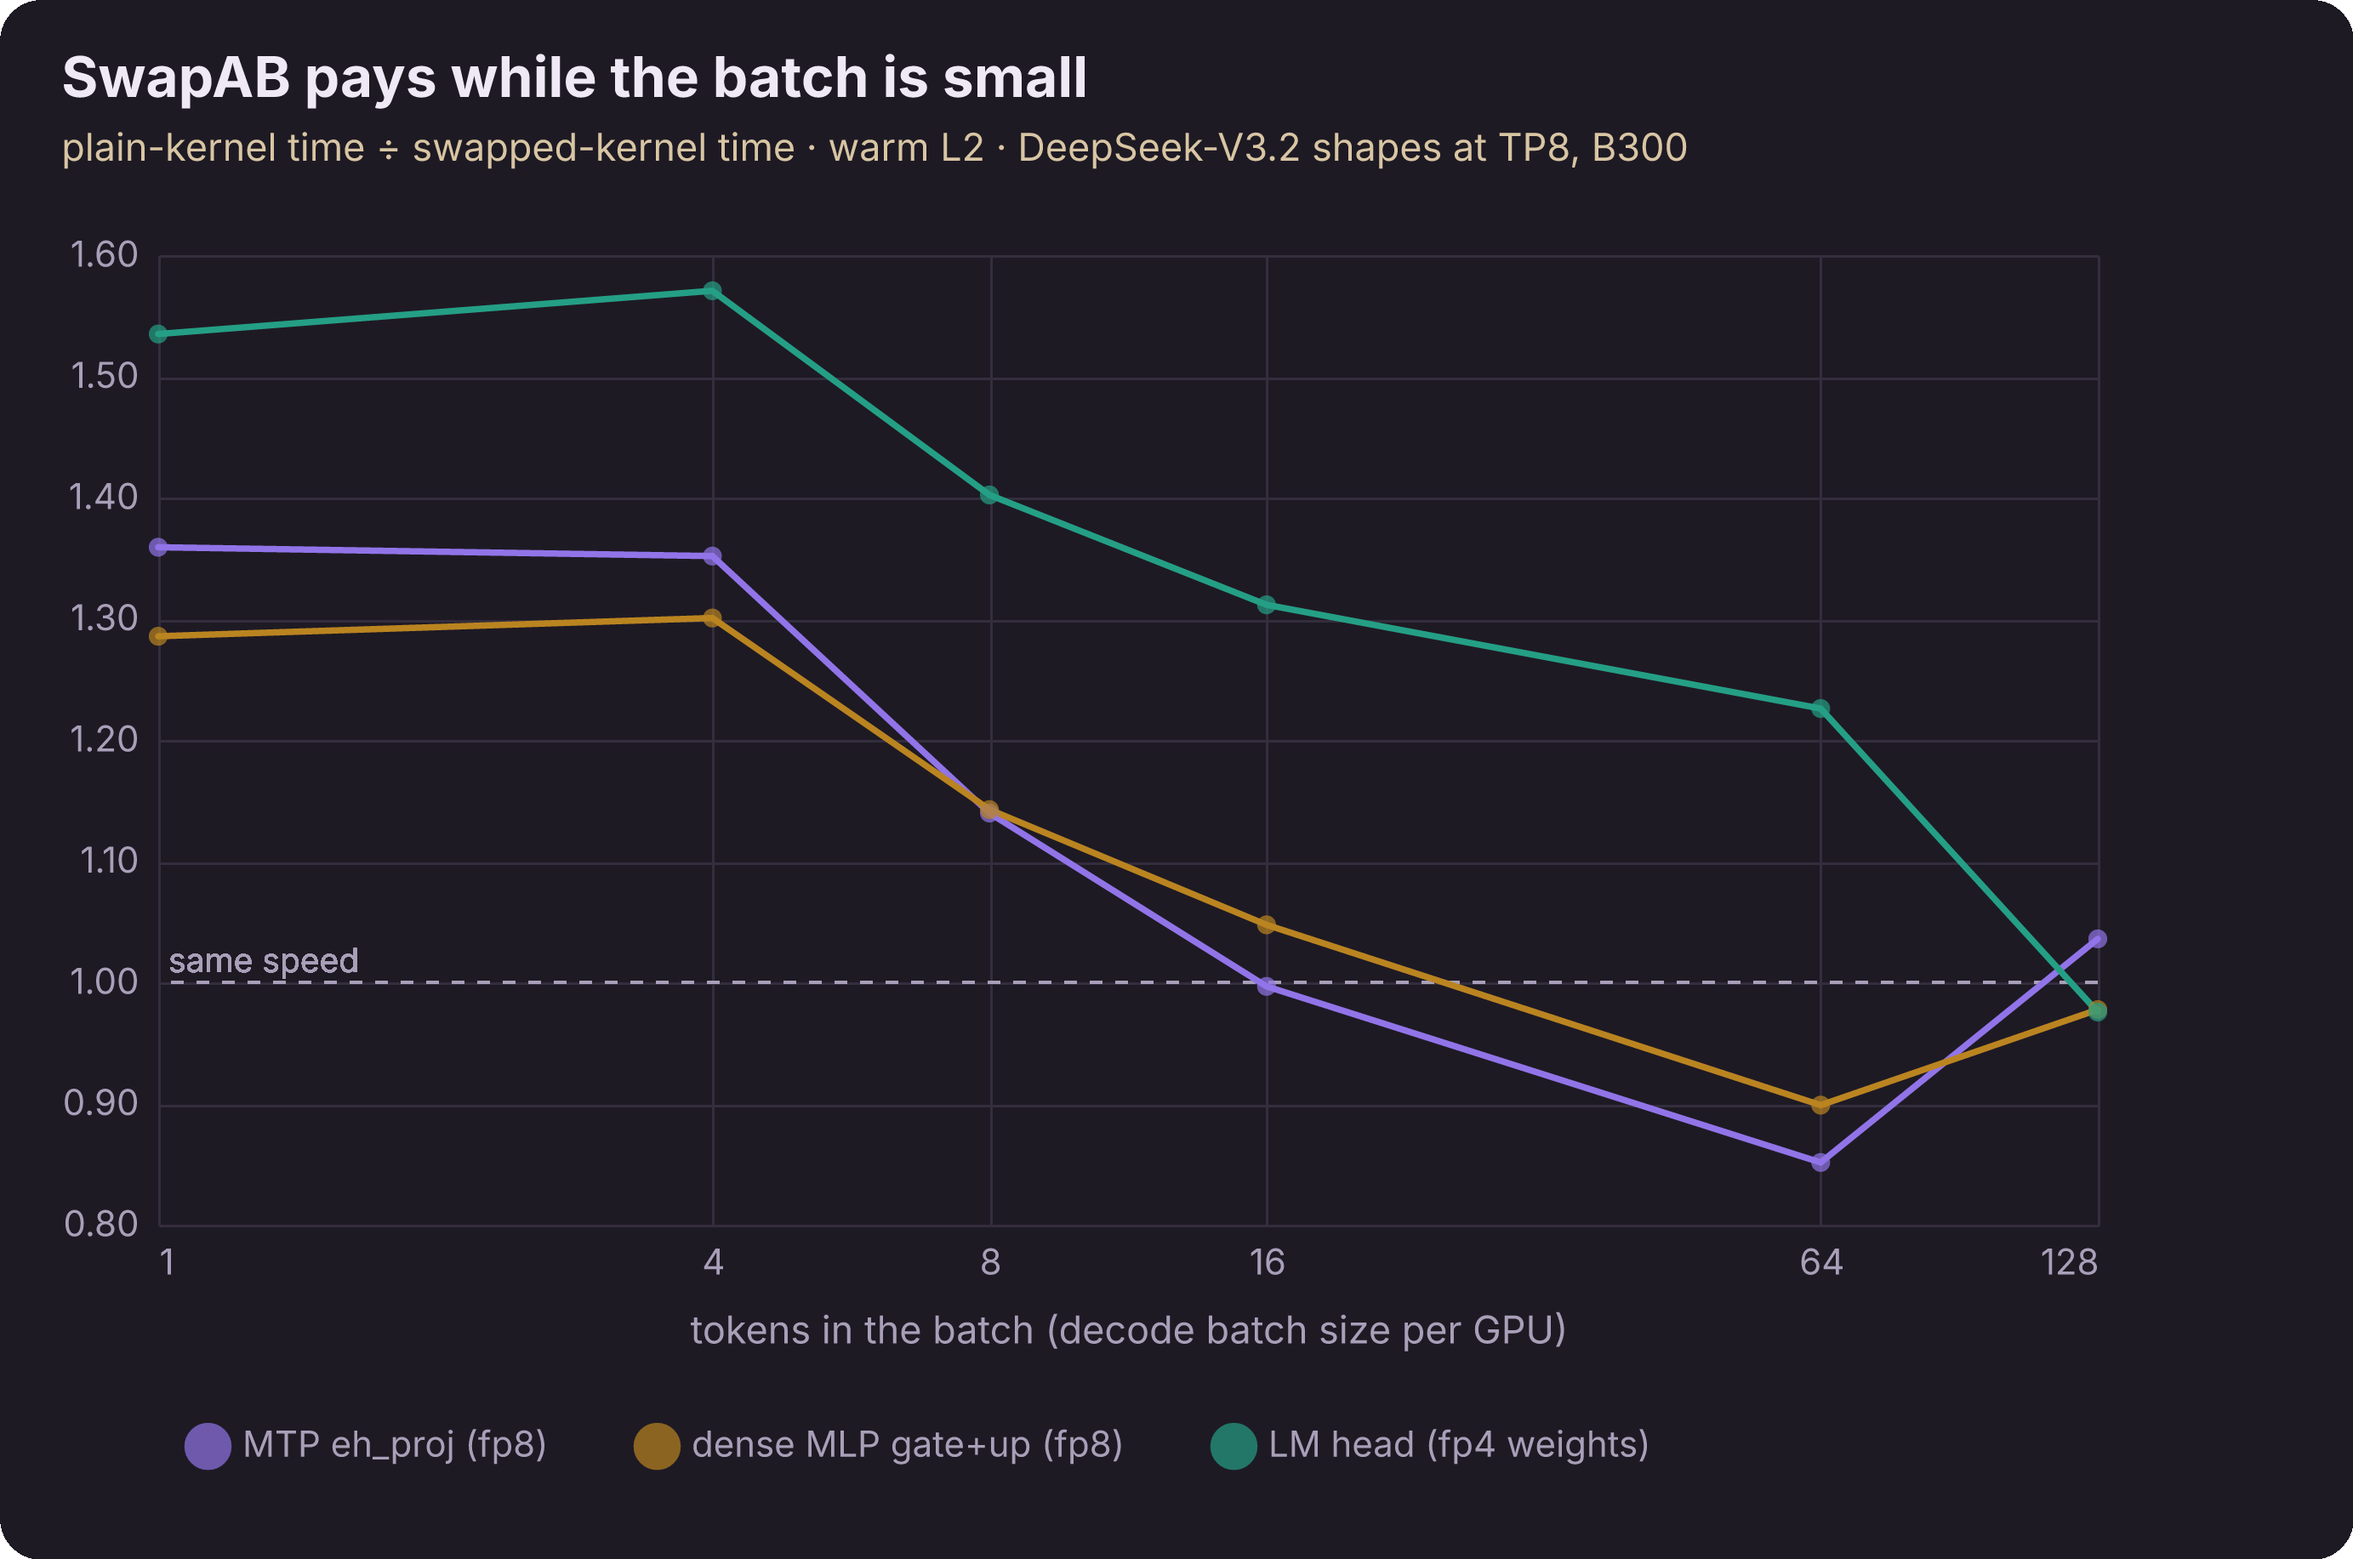
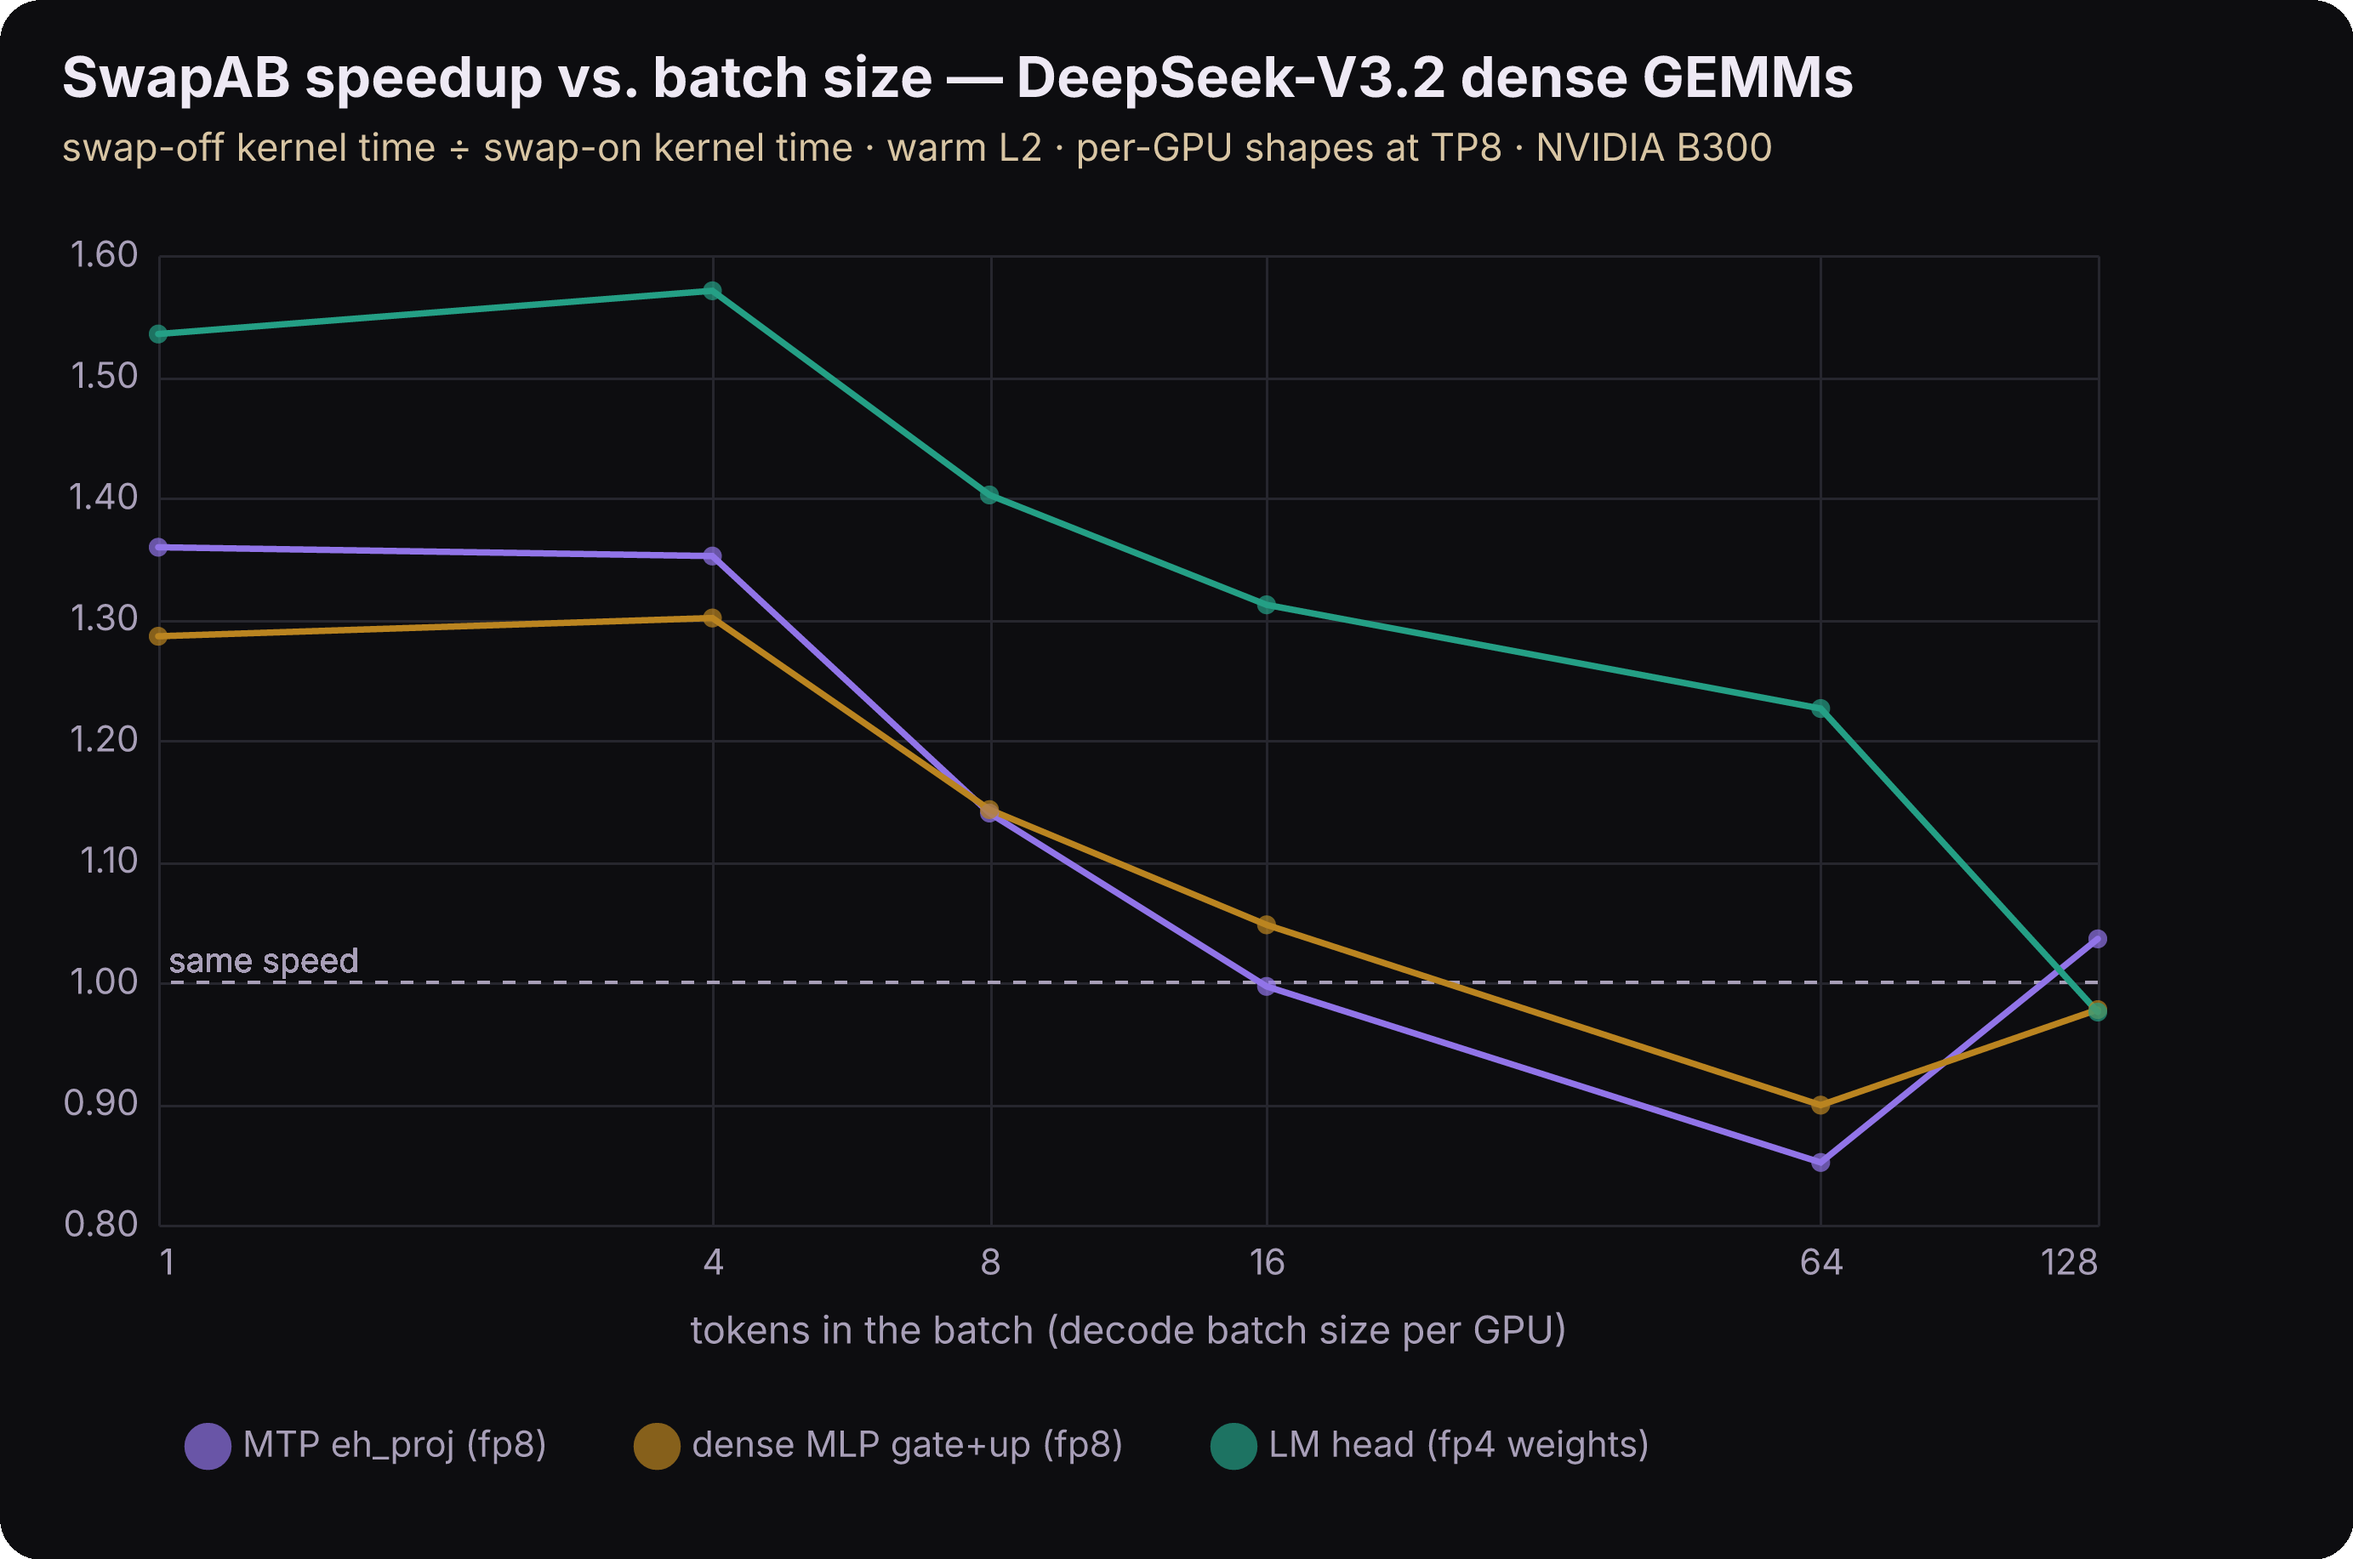
Unify figure style: one near-black surface, literal titles
- Single #0d0d10 card surface for both genres: vega PLOT_SURFACE and a custom
  rich TerminalTheme with matching green/red/blue ANSI slots
- Transparent rounded outsides everywhere (playwright omit_background +
  alpha-channel autocrop for the terminal panels)
- Titles state exactly what is plotted: 'SwapAB speedup vs. batch size —
  DeepSeek-V3.2 dense GEMMs', 'TMA multicast speedup — MoE prefill expert
  GEMMs'; descriptive terminal window titles
- Remove the leftover terminal sweep/multicast visuals (vega owns the charts)

Claude-Session: https://claude.ai/code/session_016BCxYu86qaXRzJjRyC2gx3

Changed region(s): [[0.0311, 0.0311, 0.8084, 0.1244]]

diff --git a/scripts/make_visuals.py b/scripts/make_visuals.py
@@ -19,7 +19,20 @@ import typer
 from rich.console import Console, Group
 from rich.table import Table
 from rich.panel import Panel
+from rich.terminal_theme import TerminalTheme
 from rich.text import Text
+
+# Same surface as the vega-lite cards (thread_visuals.PLOT_SURFACE) so every
+# figure in the README sits on one unified near-black card; ANSI slots snap to
+# the same validated colorway.
+THEME = TerminalTheme(
+    (13, 13, 16),                                   # background #0d0d10
+    (238, 233, 244),                                # foreground #eee9f4
+    [(13, 13, 16), (230, 103, 103), (25, 158, 112), (186, 132, 32),
+     (79, 146, 221), (213, 81, 129), (86, 180, 233), (238, 233, 244)],
+    [(70, 66, 80), (230, 103, 103), (25, 158, 112), (186, 132, 32),
+     (79, 146, 221), (213, 81, 129), (86, 180, 233), (255, 255, 255)],
+)
 
 ROOT = Path(__file__).resolve().parent.parent
 LOGS = ROOT / "logs"
@@ -61,7 +74,7 @@ def save(name: str, renderable, width: int, title: str) -> None:
     console = Console(record=True, width=width, force_terminal=True)
     console.print(renderable)
     path = OUT / f"{name}.svg"
-    console.save_svg(str(path), title=title)
+    console.save_svg(str(path), title=title, theme=THEME)
     print(f"wrote {path}")
 
 
@@ -107,56 +120,7 @@ def visual_headline() -> None:
              style="italic"),
     )
     save("swapab-headline", Panel(body, border_style="magenta"), 96,
-         "SwapAB headline")
-
-
-SPINE_LEFT = 12  # columns reserved for bars that lose to the plain kernel
-
-
-def bar(x: float, scale: int = 60) -> Text:
-    # diverging bar around a single anchored spine: │ = same speed,
-    # green grows right (swap wins), red grows left (swap loses)
-    n = round(abs(x - 1.0) * scale)
-    if n == 0:
-        return Text.assemble((" " * SPINE_LEFT, ""), ("│", "dim"),
-                             (f" {x:.2f}x", "dim"))
-    if x > 1.0:
-        return Text.assemble((" " * SPINE_LEFT, ""), ("│", "dim"),
-                             ("█" * n, "green"),
-                             (f" {x:.2f}x",
-                              "bold green" if x >= 1.1 else "green"))
-    n = min(n, SPINE_LEFT)
-    return Text.assemble((" " * (SPINE_LEFT - n), ""), ("█" * n, "red"),
-                         ("│", "dim"), (f" {x:.2f}x", "red"))
-
-
-def visual_sweep() -> None:
-    grid = Table.grid(padding=(0, 3))
-    shapes = [
-        ("MTP eh_proj (7168×14336, fp8)", WARM["fp8"], "mtp_eh_proj"),
-        ("dense MLP gate+up (4608×7168, fp8)", WARM["fp8"], "dense_mlp_gate_up"),
-        ("attention o_proj (7168×2048, fp8)", WARM["fp8"], "o_proj"),
-        ("LM head (16160×7168, fp4 weights)", WARM["fp4"], "lm_head"),
-    ]
-    for label, table, key in shapes:
-        rows = Table(title=label, box=None, show_header=False,
-                     title_justify="left", pad_edge=False, padding=(0, 0))
-        rows.add_column("m", justify="right", style="dim")
-        rows.add_column("bar", justify="left")
-        for m in M_LIST:
-            rows.add_row(f"M={m:<3d} ", bar(ratio(table, "dense", key, m)))
-        grid.add_row(rows)
-        grid.add_row(Text(""))
-    body = Group(
-        Text("how much faster the swapped kernel is, by batch size",
-             style="bold"),
-        Text("bar = swap-off time ÷ swap-on time, anchored at │ = same "
-             "speed; warm L2", style="dim"),
-        Text(""),
-        grid,
-    )
-    save("swapab-sweep", Panel(body, title="the small-M regime",
-                               border_style="cyan"), 76, "SwapAB sweep")
+         "SwapAB speedup — dense decode GEMMs")
 
 
 def visual_moe_mandatory() -> None:
@@ -192,44 +156,7 @@ def visual_moe_mandatory() -> None:
              "design.", style="bold italic"),
     )
     save("moe-mandatory", Panel(body, border_style="red"), 96,
-         "MoE needs SwapAB")
-
-
-def visual_multicast() -> None:
-    t = Table(title="no-multicast time ÷ multicast time — 32 experts/GPU, "
-                    "512 tokens/expert (prefill)")
-    t.add_column("expert GEMM")
-    for d in ("fp8", "fp4", "bf16"):
-        t.add_column(d, justify="right")
-    for label, key in (("gate+up (4096×7168)", "moe_gate_up"),
-                       ("down (7168×2048)", "moe_down")):
-        t.add_row(label, *[
-            speedup_text(ratio(COLD[d], "contiguous", key, 512,
-                               "swap_nomc", "swap_mc"), hot=1.15)
-            for d in ("fp8", "fp4", "bf16")])
-    fp8_gu = COLD["fp8"][("masked", "moe_gate_up", 8, "swap_mc")]
-    fp4_gu = COLD["fp4"][("masked", "moe_gate_up", 8, "swap_mc")]
-    fp8_dn = COLD["fp8"][("masked", "moe_down", 8, "swap_mc")]
-    fp4_dn = COLD["fp4"][("masked", "moe_down", 8, "swap_mc")]
-    body = Group(
-        Text("TMA multicast pairs CTAs on the N axis — a pairing only the "
-             "swapped layout's\ncluster geometry allows "
-             "(sm100.hpp:76-88).", style="dim"),
-        Text(""),
-        t,
-        Text(""),
-        Text("at decode sizes (1-32 tokens/expert) multicast is neutral "
-             "(~1.00x).", style="italic"),
-        Text(""),
-        Text.assemble(
-            ("bonus, decode MoE @ 8 tok/expert: fp4 weights ", "italic"),
-            (f"{fp8_gu:.0f}→{fp4_gu:.0f} µs", "bold green"),
-            (" (gate+up), ", "italic"),
-            (f"{fp8_dn:.0f}→{fp4_dn:.0f} µs", "bold green"),
-            (" (down) vs fp8 ≈ 1.65x", "italic")),
-    )
-    save("moe-multicast", Panel(body, title="what the swap unlocks",
-                                border_style="blue"), 92, "TMA multicast")
+         "forcing SwapAB off on MoE GEMMs — correctness")
 
 
 def main(
@@ -239,9 +166,7 @@ def main(
     OUT.mkdir(exist_ok=True)
     visuals = {
         "swapab-headline": visual_headline,
-        "swapab-sweep": visual_sweep,
         "moe-mandatory": visual_moe_mandatory,
-        "moe-multicast": visual_multicast,
     }
     for name, fn in visuals.items():
         if only and name != only:

diff --git a/scripts/make_plots.py b/scripts/make_plots.py
@@ -58,9 +58,9 @@ def sweep() -> None:
     line_plot(
         M_LIST, series, MEDIA / "swapab-sweep.png",
         xlabel="tokens in the batch (decode batch size per GPU)",
-        unit="plain-kernel time ÷ swapped-kernel time · warm L2 · "
-             "DeepSeek-V3.2 shapes at TP8, B300",
-        title="SwapAB pays while the batch is small",
+        unit="swap-off kernel time ÷ swap-on kernel time · warm L2 · "
+             "per-GPU shapes at TP8 · NVIDIA B300",
+        title="SwapAB speedup vs. batch size — DeepSeek-V3.2 dense GEMMs",
         zero=False, x_log2=True, x_ticks=M_LIST, y_format=".2f",
         hline=1.0, hline_label="same speed",
     )
@@ -77,9 +77,9 @@ def multicast() -> None:
             items.append((f"{label} · {d}", round(gain)))
     bar_plot(
         items, MEDIA / "moe-multicast.png",
-        unit="percent faster than no multicast · m-grouped contiguous, "
-             "32 experts/GPU, 512 tokens/expert",
-        title="What TMA multicast adds on MoE prefill",
+        unit="percent faster than no multicast · m-grouped contiguous · "
+             "32 experts/GPU · 512 tokens/expert · NVIDIA B300",
+        title="TMA multicast speedup — MoE prefill expert GEMMs",
         text_format=".0f",
     )
     print("wrote media/moe-multicast.png")

diff --git a/scripts/thread_visuals.py b/scripts/thread_visuals.py
@@ -217,14 +217,14 @@ LABEL_EXPR = (
     "datum.value >= 1000 ? format(datum.value / 1000, '.3~r') + 'k' "
     ": format(datum.value, ',.0f')"
 )
-PLOT_SURFACE = "#1e1a24"  # purple-tinted near-black card
+PLOT_SURFACE = "#0d0d10"  # unified near-black card (same as terminal panels)
 PLOT_SERIES = ["#9174e8", "#ba8420", "#249f85", "#4f92dd"]  # validated 4-slot
 PLOT_HERO = "#a78bfa"  # brighter emphasis purple (lone-accent use only)
 PLOT_MUTED_SERIES = "#8b8496"  # gray-lavender context line (mute_rest mode)
 PLOT_INK = "#eee9f4"
 PLOT_INK_MUTED = "#a89fb8"
 PLOT_TAN = "#d8c5a3"  # light tan — unit/subtitle accent
-PLOT_GRID = "#332d3d"
+PLOT_GRID = "#26262e"
 PLOT_FONT = "Inter"
 
 
